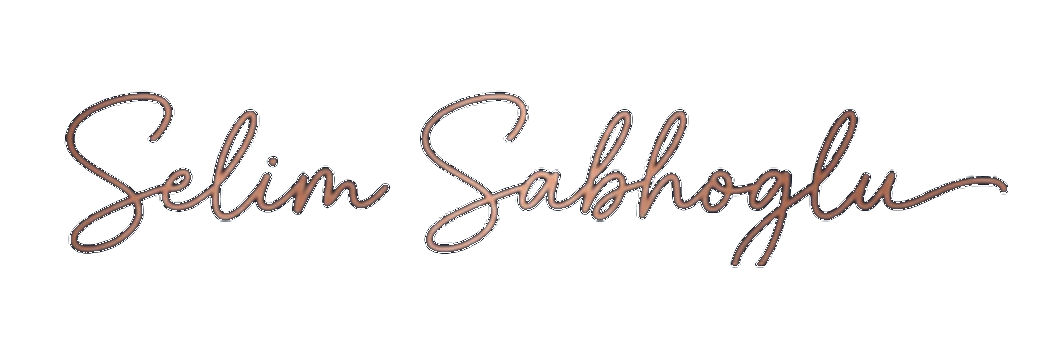
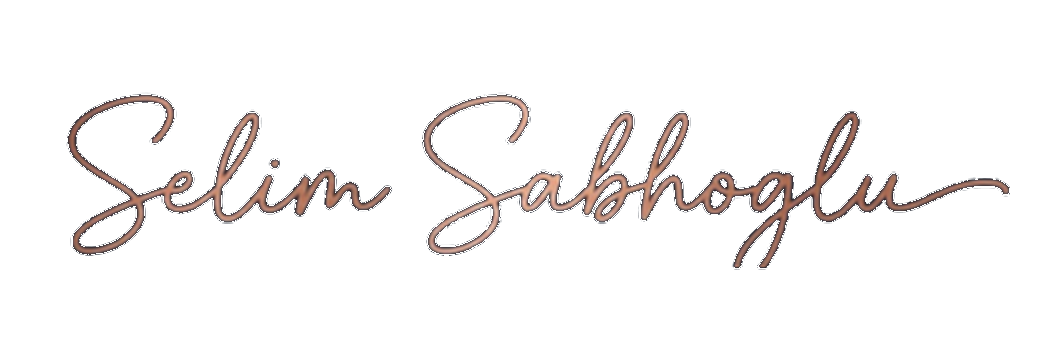
Add more bottom padding to contact signature for full g loop.
Reprocess from reference with solid copper strokes and correct image aspect ratio.

diff --git a/kontakt.html b/kontakt.html
@@ -26,6 +26,8 @@
         padding-right: 24px;
       }
       .guide-kontakt__signature {
+        margin: 0.75rem 0 0.5rem;
+        padding: 0 0 0.5rem;
         overflow: visible;
       }
       .guide-kontakt__signature-img {
@@ -160,7 +162,7 @@
                     <li>WhatsApp: <a href="schaden-melden.html">Schaden melden</a></li>
                     <li>Pohlweg 76, 33098 Paderborn</li>
                   </ul>
-                  <p class="guide-kontakt__signature"><img class="guide-kontakt__signature-img" src="assets/contact/selim-sabahoglu-signature.png?v=4" alt="Unterschrift Selim Sabahoglu" width="420" height="123" loading="lazy" decoding="async" /></p>
+                  <p class="guide-kontakt__signature"><img class="guide-kontakt__signature-img" src="assets/contact/selim-sabahoglu-signature.png?v=5" alt="Unterschrift Selim Sabahoglu" width="420" height="137" loading="lazy" decoding="async" /></p>
                   <a class="guide-kontakt__cta" href="mailto:sesa-svb@outlook.de">Kontakt aufnehmen →</a>
                 </div>
               </div>

diff --git a/css/styles.css b/css/styles.css
@@ -6426,8 +6426,8 @@ main:has(.guide-kontakt) + .footer {
 }
 
 .guide-kontakt__signature {
-  margin: 0.75rem 0 0;
-  padding: 0 0 0.2rem;
+  margin: 0.75rem 0 0.5rem;
+  padding: 0 0 0.5rem;
   line-height: 1;
   overflow: visible;
 }
@@ -6439,6 +6439,7 @@ main:has(.guide-kontakt) + .footer {
   height: auto;
   object-fit: contain;
   object-position: left center;
+  overflow: visible;
 }
 
 .guide-kontakt__cta {

diff --git a/build_site.py b/build_site.py
@@ -12,7 +12,7 @@ LOGO_MONOGRAM = "assets/logo-monogram.png?v=6"
 ABOUT_HERO = "assets/about/about-hero.jpg?v=1"
 ABOUT_PORTRAIT = "assets/portrait-placeholder.png?v=1"
 CONTACT_HERO = "assets/hero-inspection.png"
-SIGNATURE_IMAGE = "assets/contact/selim-sabahoglu-signature.png?v=4"
+SIGNATURE_IMAGE = "assets/contact/selim-sabahoglu-signature.png?v=5"
 KONTAKT_SIGNATURE_STYLE = """
     <style>
       main:has(.guide-kontakt) {
@@ -29,6 +29,8 @@ KONTAKT_SIGNATURE_STYLE = """
         padding-right: 24px;
       }
       .guide-kontakt__signature {
+        margin: 0.75rem 0 0.5rem;
+        padding: 0 0 0.5rem;
         overflow: visible;
       }
       .guide-kontakt__signature-img {
@@ -1269,7 +1271,7 @@ def kontakt_page_body() -> str:
                     <li>WhatsApp: <a href="schaden-melden.html">Schaden melden</a></li>
                     <li>{ADDRESS}</li>
                   </ul>
-                  <p class="guide-kontakt__signature"><img class="guide-kontakt__signature-img" src="{SIGNATURE_IMAGE}" alt="Unterschrift {OWNER}" width="420" height="123" loading="lazy" decoding="async" /></p>
+                  <p class="guide-kontakt__signature"><img class="guide-kontakt__signature-img" src="{SIGNATURE_IMAGE}" alt="Unterschrift {OWNER}" width="420" height="137" loading="lazy" decoding="async" /></p>
                   <a class="guide-kontakt__cta" href="mailto:{EMAIL}">Kontakt aufnehmen →</a>
                 </div>
               </div>
